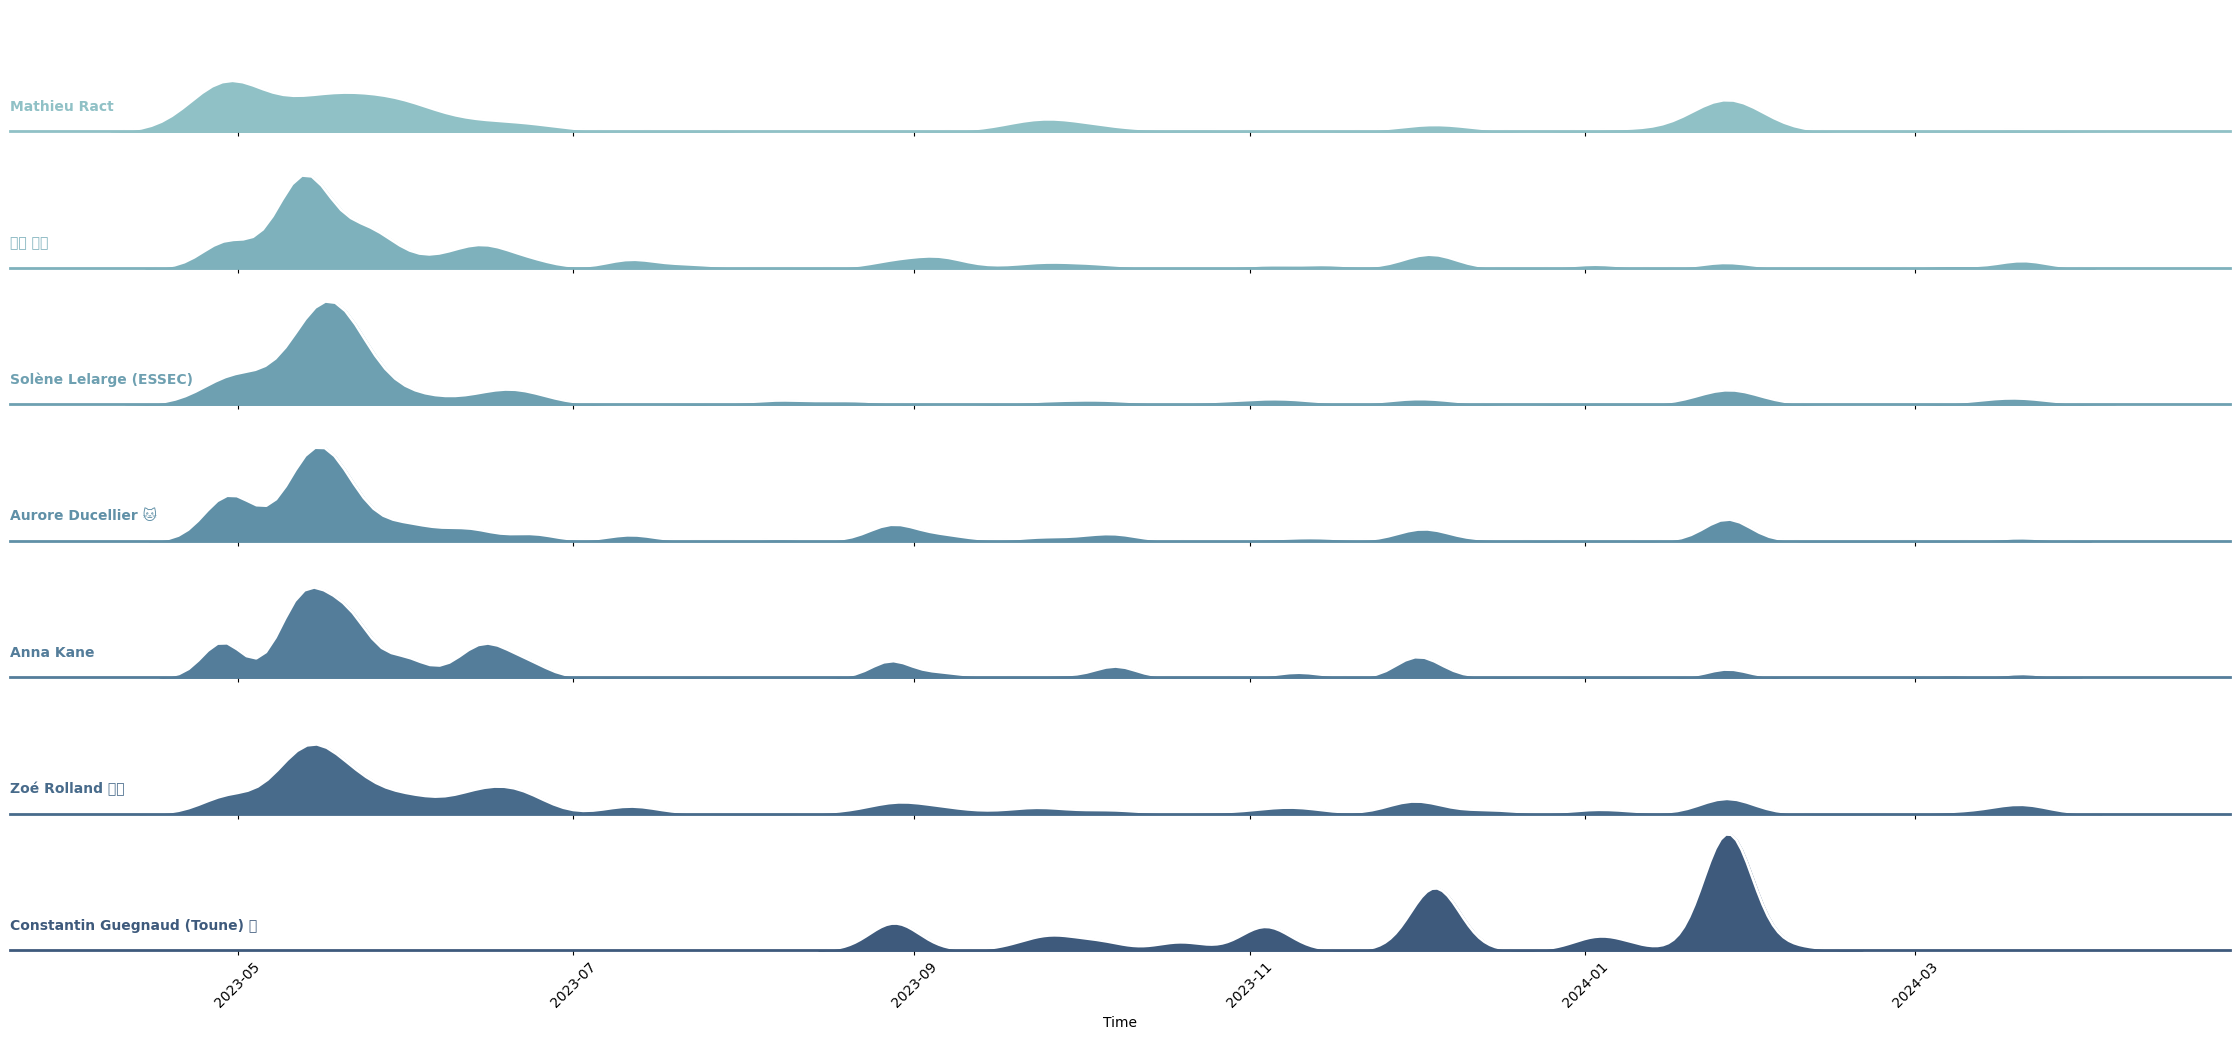
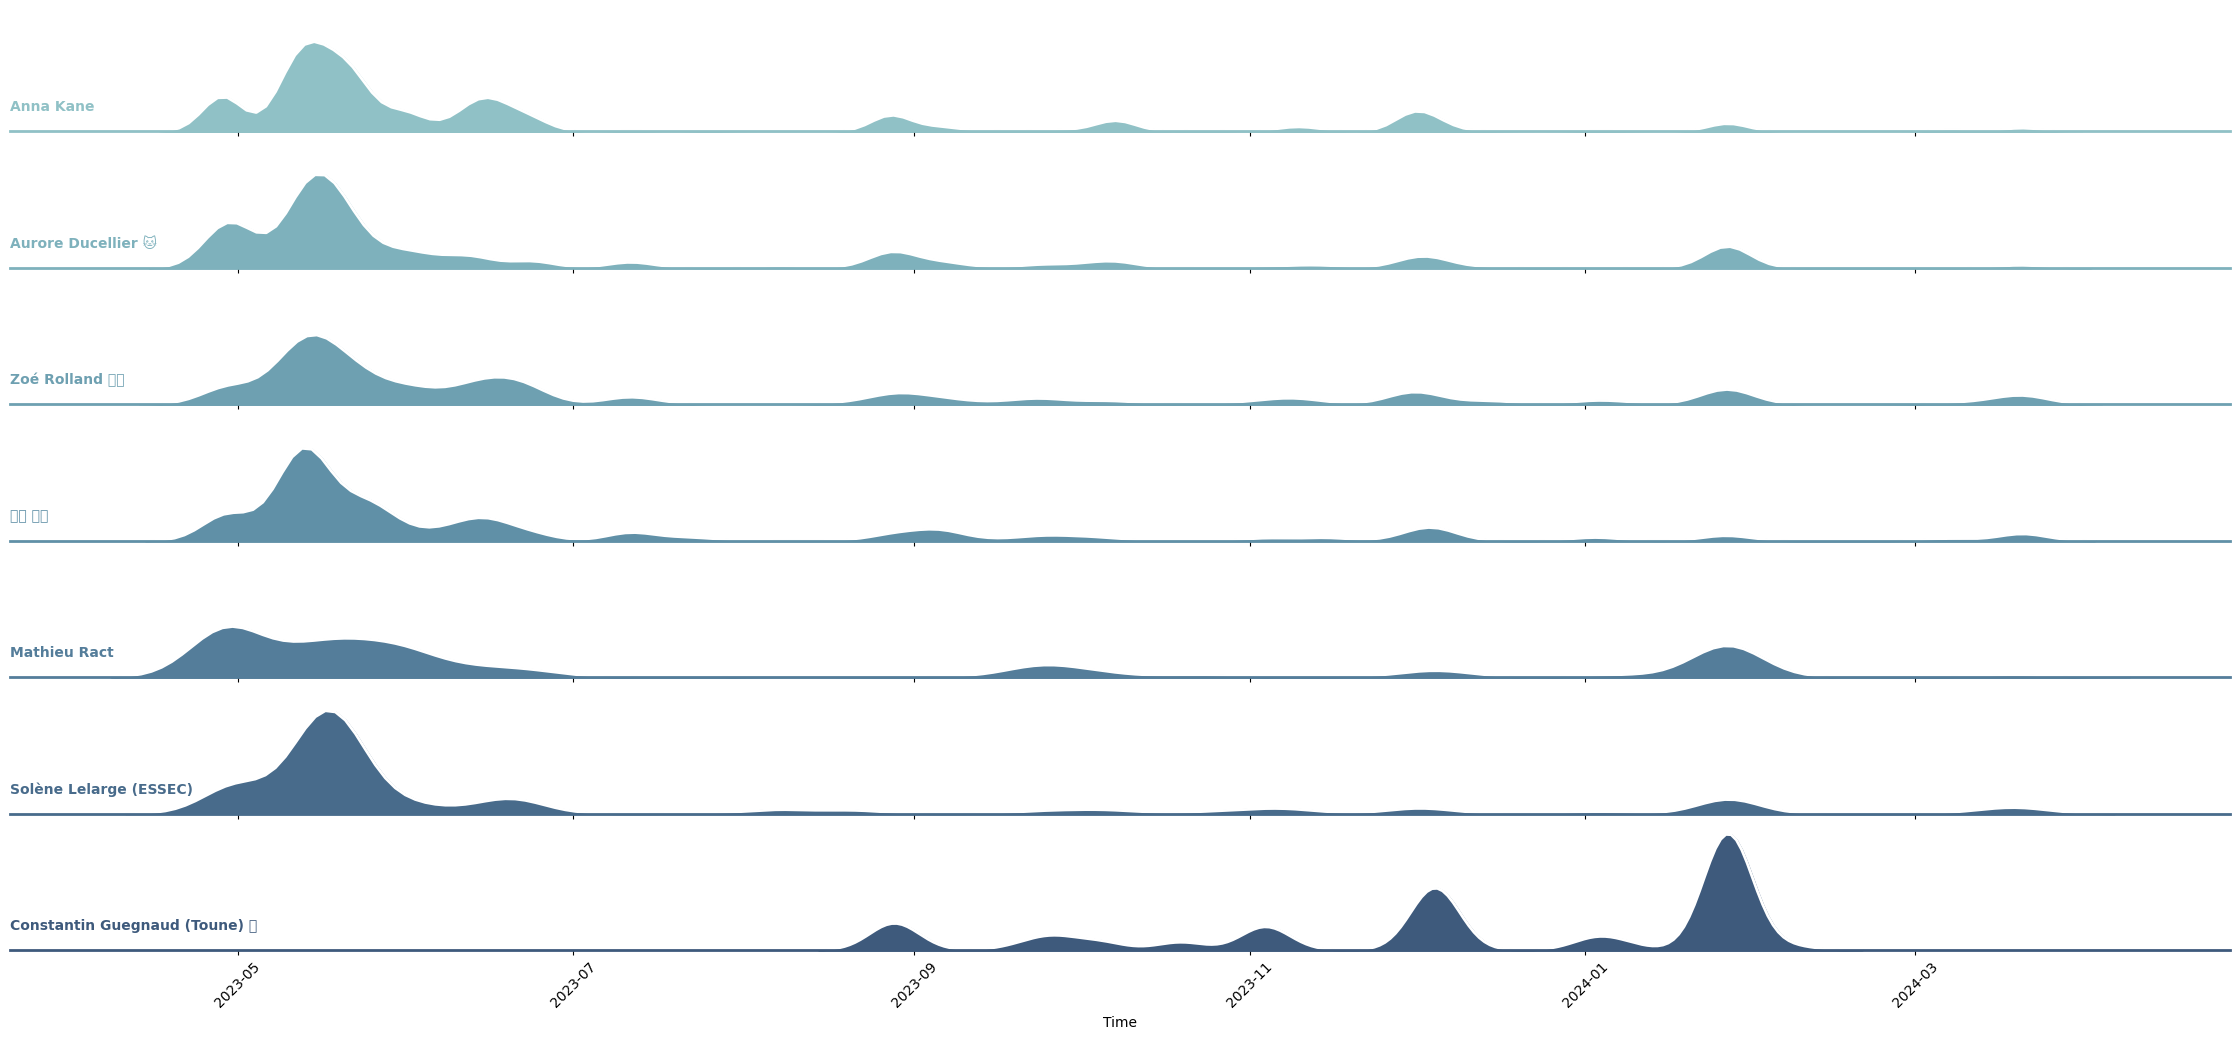
tri graphique

diff --git a/utils/utils.py b/utils/utils.py
@@ -63,10 +63,14 @@ class Whatsapp:
 
     def display_messages_users(self, chat_content):
         messages_per_user = self.count_messages_per_user(chat_content)
+
+        sorted_users = sorted(messages_per_user[0].items(), key=lambda x: len(x[1]), reverse=True)
+
         data = []
-        for user, messages in messages_per_user[0].items():
+        for user, messages in sorted_users:
             for time, _ in messages:
                 data.append((user, time))
+
         df = pd.DataFrame(data, columns=['User', 'Time'])
 
         pal = sns.cubehelix_palette(10, rot=-.25, light=.7)
@@ -75,7 +79,6 @@ class Whatsapp:
         echantillonage = 0.2
         g.map(sns.kdeplot, "Time", bw_adjust=echantillonage, clip_on=False, fill=True, alpha=1, linewidth=1.5)
         g.map(sns.kdeplot, "Time", clip_on=False, color="w", lw=2, bw_adjust=echantillonage)
-
         g.refline(y=0, linewidth=2, linestyle="-", color=None, clip_on=False)
 
         def label(x, color, label):
@@ -84,11 +87,7 @@ class Whatsapp:
                     ha="left", va="center", transform=ax.transAxes)
 
         g.map(label, "Time")
-
-        # Set the subplots to overlap
         g.figure.subplots_adjust(hspace=-.25)
-
-        # Remove axes details that don't play well with overlap
         g.set_titles("")
         g.set(yticks=[], ylabel="")
         g.despine(bottom=True, left=True)
